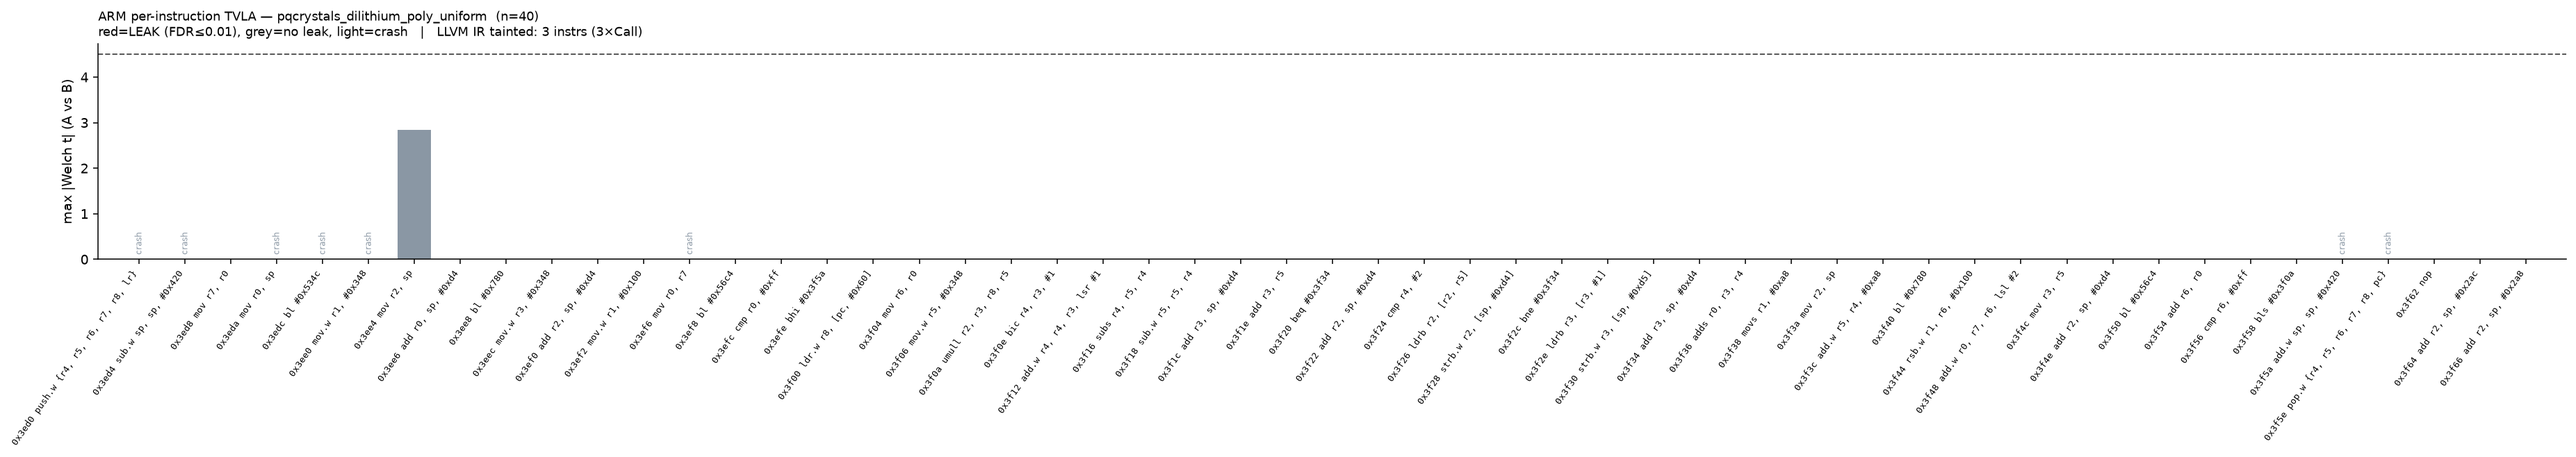
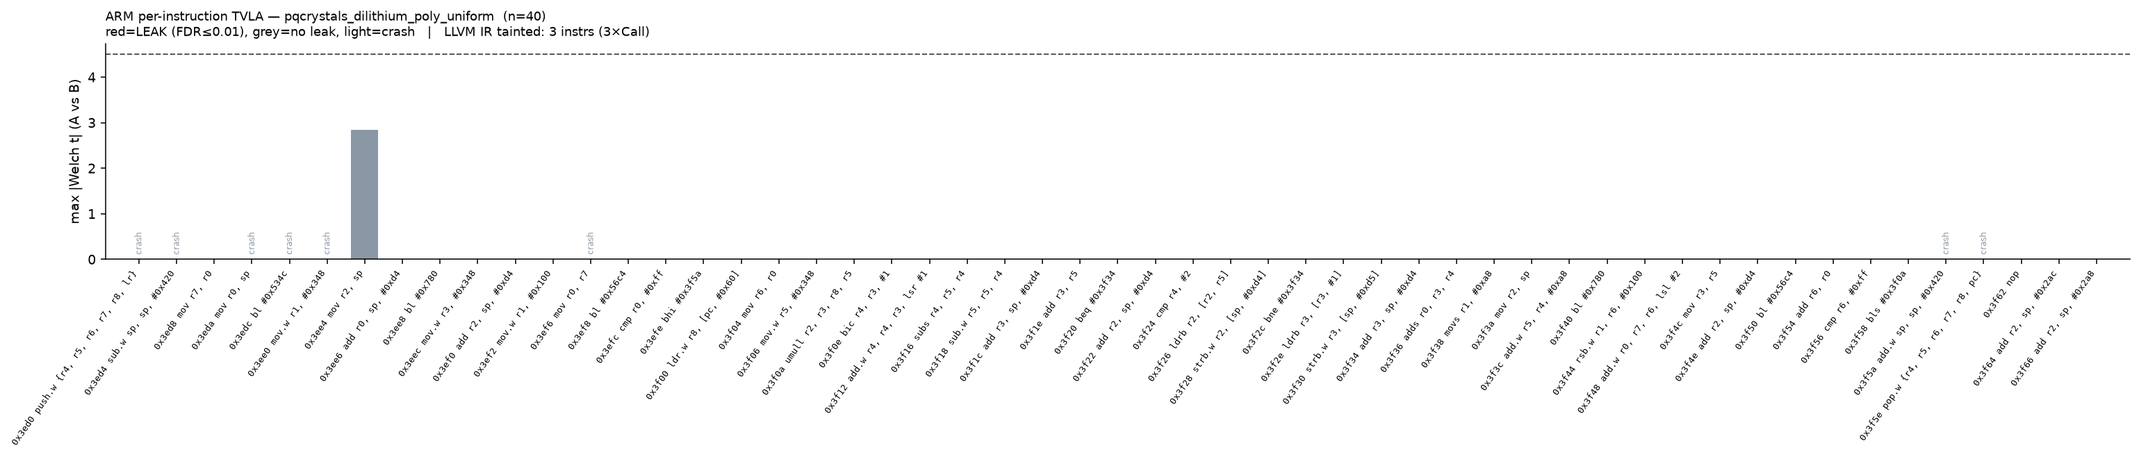
plot_regions: cap figure width + drop per-instruction labels for large functions
ntt/invntt have 267-382 instructions; the per-instruction bar chart was ~20000px wide.
Cap width at 22in and, for functions >60 instrs, label the x-axis by instruction index
instead of per-instruction mnemonics.

diff --git a/scripts/plot_regions.py b/scripts/plot_regions.py
@@ -46,14 +46,19 @@ def plot(fn, m):
             vals.append(r.metric); cols.append("#c0392b" if r.status == "LEAK" else "#8a97a4"); crash.append(False)
     taint = llvm_taint(fn)
     tstr = ", ".join(f"{n}×{t.replace('Inst','')}" for t, n in taint.most_common()) or "none"
-    fig, ax = plt.subplots(figsize=(max(8, len(instrs) * 0.5), 4.6))
+    wide = len(instrs) > 60                               # too many instrs to label individually
+    fig, ax = plt.subplots(figsize=(min(22, max(8, len(instrs) * 0.5)), 4.6))
     x = np.arange(len(instrs))
-    ax.bar(x, vals, color=cols, width=0.72)
-    for i, c in enumerate(crash):
-        if c: ax.text(i, 0.1, "crash", ha="center", va="bottom", fontsize=6, color="#8a97a4", rotation=90)
+    ax.bar(x, vals, color=cols, width=0.9 if wide else 0.72)
     ax.axhline(TH, color="#555", ls="--", lw=1)
-    ax.set_xticks(x); ax.set_xticklabels([f"{pc:#06x} {t}" for pc, t in instrs],
-                                         rotation=55, ha="right", fontsize=6.5, family="monospace")
+    if wide:
+        ax.set_xlabel(f"instruction index  (0..{len(instrs)-1};  {len(instrs)} instrs, "
+                      f"{sum(crash)} skip-crashes)")
+    else:
+        for i, c in enumerate(crash):
+            if c: ax.text(i, 0.1, "crash", ha="center", va="bottom", fontsize=6, color="#8a97a4", rotation=90)
+        ax.set_xticks(x); ax.set_xticklabels([f"{pc:#06x} {t}" for pc, t in instrs],
+                                             rotation=55, ha="right", fontsize=6.5, family="monospace")
     ax.set_ylabel("max |Welch t| (A vs B)")
     ax.set_title(f"ARM per-instruction TVLA — pqcrystals_dilithium_{fn}  (n={res.n})\n"
                  f"red=LEAK (FDR≤0.01), grey=no leak, light=crash   |   "
